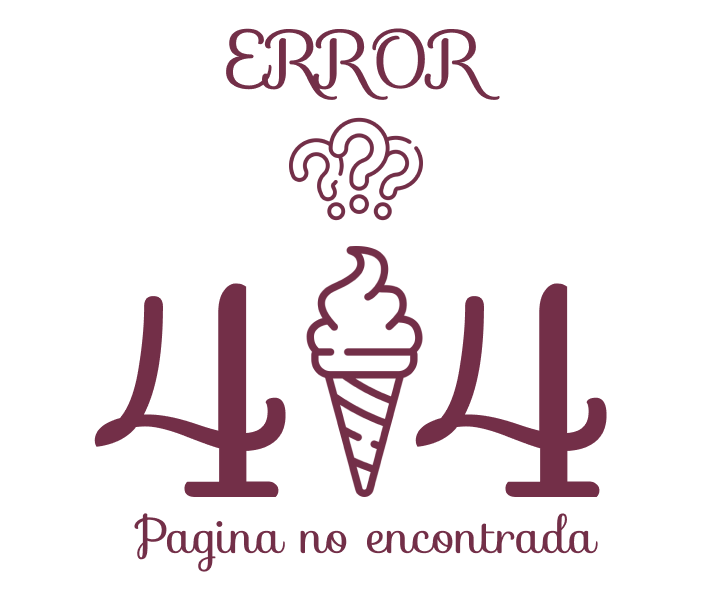
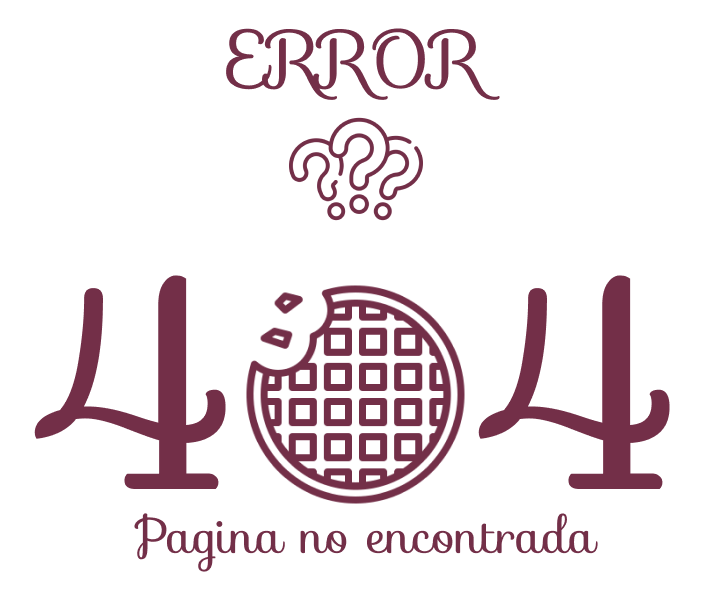
Refactorización e implementación de errores

Changed region(s): [[0.0305, 0.39, 0.9459, 0.84]]

diff --git a/src/app/(pages)/(auth)/admin/components/generales/NavBar/NavBar.jsx b/src/app/(pages)/(auth)/admin/components/generales/NavBar/NavBar.jsx
@@ -13,23 +13,23 @@ const NavBar = () => {
                 <div className="menuLateral">
                     <div className="menuLateral__Opcion">
                         <img src='/assets/icons/menuLateral/LogoVentas.png' alt="icono" />
-                        <Link href="admin/ventas">Ventas</Link>
+                        <Link href="/admin/ventas">Ventas</Link>
                     </div>
                     <div className="menuLateral__Opcion">
                         <img src='/assets/icons/menuLateral/LogoInventario.png' alt="icono" />
-                        <Link href="admin/inventarios">Inventario</Link>
+                        <Link href="/admin/inventarios">Inventario</Link>
                     </div>
                     <div className="menuLateral__Opcion">
                         <img src='/assets/icons/menuLateral/LogoProveedores.png' alt="icono" />
-                        <Link href="admin/proveedores">Proveedores</Link>
+                        <Link href="/admin/proveedores">Proveedores</Link>
                     </div>
                     <div className="menuLateral__Opcion">
                         <img src='/assets/icons/menuLateral/LogoPedidos.png' alt="icono" />
-                        <Link href="admin/pedidos">Pedidos</Link>
+                        <Link href="/admin/pedidos">Pedidos</Link>
                     </div>
                     <div className="menuLateral__Opcion">
                         <img src='/assets/icons/menuLateral/LogoUsuarios.png' alt="icono" />
-                        <Link href="admin/usuarios">Usuarios</Link>
+                        <Link href="/admin/usuarios">Usuarios</Link>
                     </div>
                     {/* <div className="menuLateral__Opcion">
                         <img src='/assets/icons/menuLateral/LogoEstadisticas.png' alt="icono" />
@@ -39,7 +39,7 @@ const NavBar = () => {
                 </div>
                 {
                     // Aca debo saber en que ruta estoy para mostrar el logo
-                    <Link href="admin/menu_principal">
+                    <Link href="/admin/">
                         <img className="icon" src='/assets/icons/LogoCasa.png'/>
                     </Link>
                 }

diff --git a/src/app/(pages)/(auth)/admin/pedidos/page.jsx b/src/app/(pages)/(auth)/admin/pedidos/page.jsx
@@ -1,15 +1,15 @@
 "use client"
 import React, { useEffect, useState } from 'react';
-import pedidosService from 'app/app/services/pedidos_service';
-import { showAlert } from 'app/app/utilities';
+import pedidosService from 'app/services/pedidos_service';
+import { showAlert } from 'app/utilities';
 import CreatePedido from '../components/pedidos/CreatePedido';
 import TablePedidos from '../components/pedidos/TablePedidos';
-import "app/app/css/pedidos/tab_tabla.css";
-import "app/app/css/pedidos/tablas.css";
-import "app/app/css/pedidos/filtros.css";
-import "app/app/css/pedidos/Pedidos.css"
-import "app/app/css/pedidos/botones.css";
-import estadosPedidosService from 'app/app/services/estados_pedidos_servise';
+import "app/css/pedidos/tab_tabla.css";
+import "app/css/pedidos/tablas.css";
+import "app/css/pedidos/filtros.css";
+import "app/css/pedidos/Pedidos.css"
+import "app/css/pedidos/botones.css";
+import estadosPedidosService from 'app/services/estados_pedidos_servise';
 
 const PedidosPage = () => {
     const [pedidos, setPedidos] = useState([]);

diff --git a/src/app/(pages)/(auth)/admin/components/pedidos/CreatePedido/index.js b/src/app/(pages)/(auth)/admin/components/pedidos/CreatePedido/index.js
@@ -1,11 +1,11 @@
 import React, { useEffect, useState } from "react";
 import { IoTrash } from "react-icons/io5";
-import pedidosService from "app/app/services/pedidos_service";
-import { formatNumberToCop, showAlert } from "app/app/utilities";
-import "app/app/css/pedidos/createPedidoVenta.css";
-import "app/app/css/pedidos/botones.css";
-import productosService from "app/app/services/productos_service";
-import detallesPedidosService from "app/app/services/detalles_pedidos_service";
+import pedidosService from "app/services/pedidos_service";
+import { formatNumberToCop, showAlert } from "app/utilities";
+import "app/css/pedidos/createPedidoVenta.css";
+import "app/css/pedidos/botones.css";
+import productosService from "app/services/productos_service";
+import detallesPedidosService from "app/services/detalles_pedidos_service";
 
 const CreatePedido = ({ actualizarListaPedidos, handleCerrarModalCrearPedido }) => {
   const [productos, setProductos] = useState([]);

diff --git a/src/app/(pages)/(auth)/admin/proveedores/page.jsx b/src/app/(pages)/(auth)/admin/proveedores/page.jsx
@@ -1,12 +1,12 @@
 "use client";
 import React, { useEffect, useState } from 'react';
-import proveedoresService from 'app/app/services/proveedores_service';
-import { showAlert } from 'app/app/utilities';
-import "app/app/css/pedidos/tab_tabla.css";
-import "app/app/css/pedidos/tablas.css";
-import "app/app/css/pedidos/filtros.css";
-import "app/app/css/pedidos/Pedidos.css"
-import "app/app/css/pedidos/botones.css";
+import proveedoresService from 'app/services/proveedores_service';
+import { showAlert } from 'app/utilities';
+import "app/css/pedidos/tab_tabla.css";
+import "app/css/pedidos/tablas.css";
+import "app/css/pedidos/filtros.css";
+import "app/css/pedidos/Pedidos.css"
+import "app/css/pedidos/botones.css";
 import TablaProveedores from '../components/proveedores/TablaProveedores';
 import CrearProveedor from '../components/proveedores/CrearProveedor';
 

diff --git a/src/app/(pages)/(auth)/admin/components/proveedores/TablaProveedores/index.jsx b/src/app/(pages)/(auth)/admin/components/proveedores/TablaProveedores/index.jsx
@@ -1,9 +1,9 @@
 import React from 'react';
 import ActualizarProveedor from '../ActualizarProveedor';
-import proveedoresService from 'app/app/services/proveedores_service';
+import proveedoresService from 'app/services/proveedores_service';
 import withReactContent from 'sweetalert2-react-content';
 import Swal from 'sweetalert2';
-import { showAlert } from 'app/app/utilities';
+import { showAlert } from 'app/utilities';
 
 const TablaProveedores = ({ proveedores, filtroNombre, actualizarListaProveedores }) => {
     const proveedoresFiltrados = proveedores.filter((proveedor) =>

diff --git a/src/app/error.jsx b/src/app/error.jsx
@@ -1,0 +1,16 @@
+"use client"
+import 'app/css/generales/style.css'
+import 'app/css/generales/errores.css'
+import Link from 'next/link'
+
+const error500 = () => {
+  return (
+<div className='contenedorError'>
+    <img src="/assets/img/error500.png" alt="Error interno en el servidor" className="errorPagina"/>
+    <img src="/assets/img/footerErrors.png" alt="lineas de colores" className="errorFooter"/>
+    <Link className='enlaceError color-oscuro' href="/">Volver a la página principal</Link>
+</div>
+  )
+}
+
+export default error500

diff --git a/src/app/(pages)/(auth)/admin/components/pedidos/UpdatePedido/index.js b/src/app/(pages)/(auth)/admin/components/pedidos/UpdatePedido/index.js
@@ -1,7 +1,7 @@
 import { useEffect, useState } from "react";
 import { AiOutlineCalendar, AiOutlineInfoCircle, AiOutlineMail, AiOutlinePhone, AiOutlineUser } from "react-icons/ai";
-import pedidosService from "app/app/services/pedidos_service";
-import { formatearFechaParaInputDate, showAlert } from "app/app/utilities";
+import pedidosService from "app/services/pedidos_service";
+import { formatearFechaParaInputDate, showAlert } from "app/utilities";
 import DetallesPedido from "../DetallesPedido/DetallesPedido";
 
 const estados = [

diff --git a/src/app/not-found.jsx b/src/app/not-found.jsx
@@ -1,0 +1,15 @@
+import 'app/css/generales/style.css'
+import 'app/css/generales/errores.css'
+import Link from 'next/link'
+
+const error404 = () => {
+  return (
+<div className='contenedorError'>
+    <img src="/assets/img/error404.png" alt="Error interno en el servidor" className="errorPagina"/>
+    <img src="/assets/img/footerErrors.png" alt="lineas de colores" className="errorFooter"/>
+    <Link className='enlaceError color-oscuro' href="/">Volver a la página principal</Link>
+</div>
+  )
+}
+
+export default error404

diff --git a/src/app/(pages)/(auth)/admin/components/proveedores/ActualizarProveedor/index.js b/src/app/(pages)/(auth)/admin/components/proveedores/ActualizarProveedor/index.js
@@ -1,6 +1,6 @@
 import React, { useState } from 'react';
-import proveedoresService from 'app/app/services/proveedores_service'; // Asegúrate de proporcionar la ruta correcta
-import { showAlert } from 'app/app/utilities';
+import proveedoresService from 'app/services/proveedores_service'; // Asegúrate de proporcionar la ruta correcta
+import { showAlert } from 'app/utilities';
 
 const ActualizarProveedor = ({actualizarListaProveedores, proveedor }) => {
   const [prveedorActualizado, setProveedorActualizado] = useState({

diff --git a/src/app/(pages)/(auth)/admin/error.jsx b/src/app/(pages)/(auth)/admin/error.jsx
@@ -1,0 +1,15 @@
+"use client"
+import 'app/css/generales/errores.css'
+import Link from 'next/link'
+
+const error500 = () => {
+  return (
+<div className='contenedorError'>
+    <img src="/assets/img/error500.png" alt="Error interno en el servidor" className="errorPagina"/>
+    <img src="/assets/img/footerErrors.png" alt="lineas de colores" className="errorFooter"/>
+    <Link  className='enlaceError color-oscuro' href="/admin">Volver a la página principal</Link>
+</div>
+  )
+}
+
+export default error500

diff --git a/src/app/(pages)/(auth)/admin/components/proveedores/CrearProveedor/index.js b/src/app/(pages)/(auth)/admin/components/proveedores/CrearProveedor/index.js
@@ -1,6 +1,6 @@
 import React, { useState } from 'react';
-import proveedoresService from 'app/app/services/proveedores_service'; // Asegúrate de proporcionar la ruta correcta
-import { showAlert } from 'app/app/utilities';
+import proveedoresService from 'app/services/proveedores_service'; // Asegúrate de proporcionar la ruta correcta
+import { showAlert } from 'app/utilities';
 
 const CrearProveedor = ({ actualizarListaProveedores }) => {
   const [nuevoProveedor, setNuevoProveedor] = useState({

diff --git a/src/app/(pages)/(auth)/admin/components/pedidos/DetallesPedido/DetallesPedido.jsx b/src/app/(pages)/(auth)/admin/components/pedidos/DetallesPedido/DetallesPedido.jsx
@@ -1,6 +1,6 @@
 import React, { useState, useEffect } from 'react';
-import detallesPedidosService from 'app/app/services/detalles_pedidos_service';
-import { showAlert, formatNumberToCop } from 'app/app/utilities';
+import detallesPedidosService from 'app/services/detalles_pedidos_service';
+import { showAlert, formatNumberToCop } from 'app/utilities';
 
 const DetallesPedido = ({ id_pedido }) => {
     const [detallesPedido, setDetallesPedido] = useState([]);
